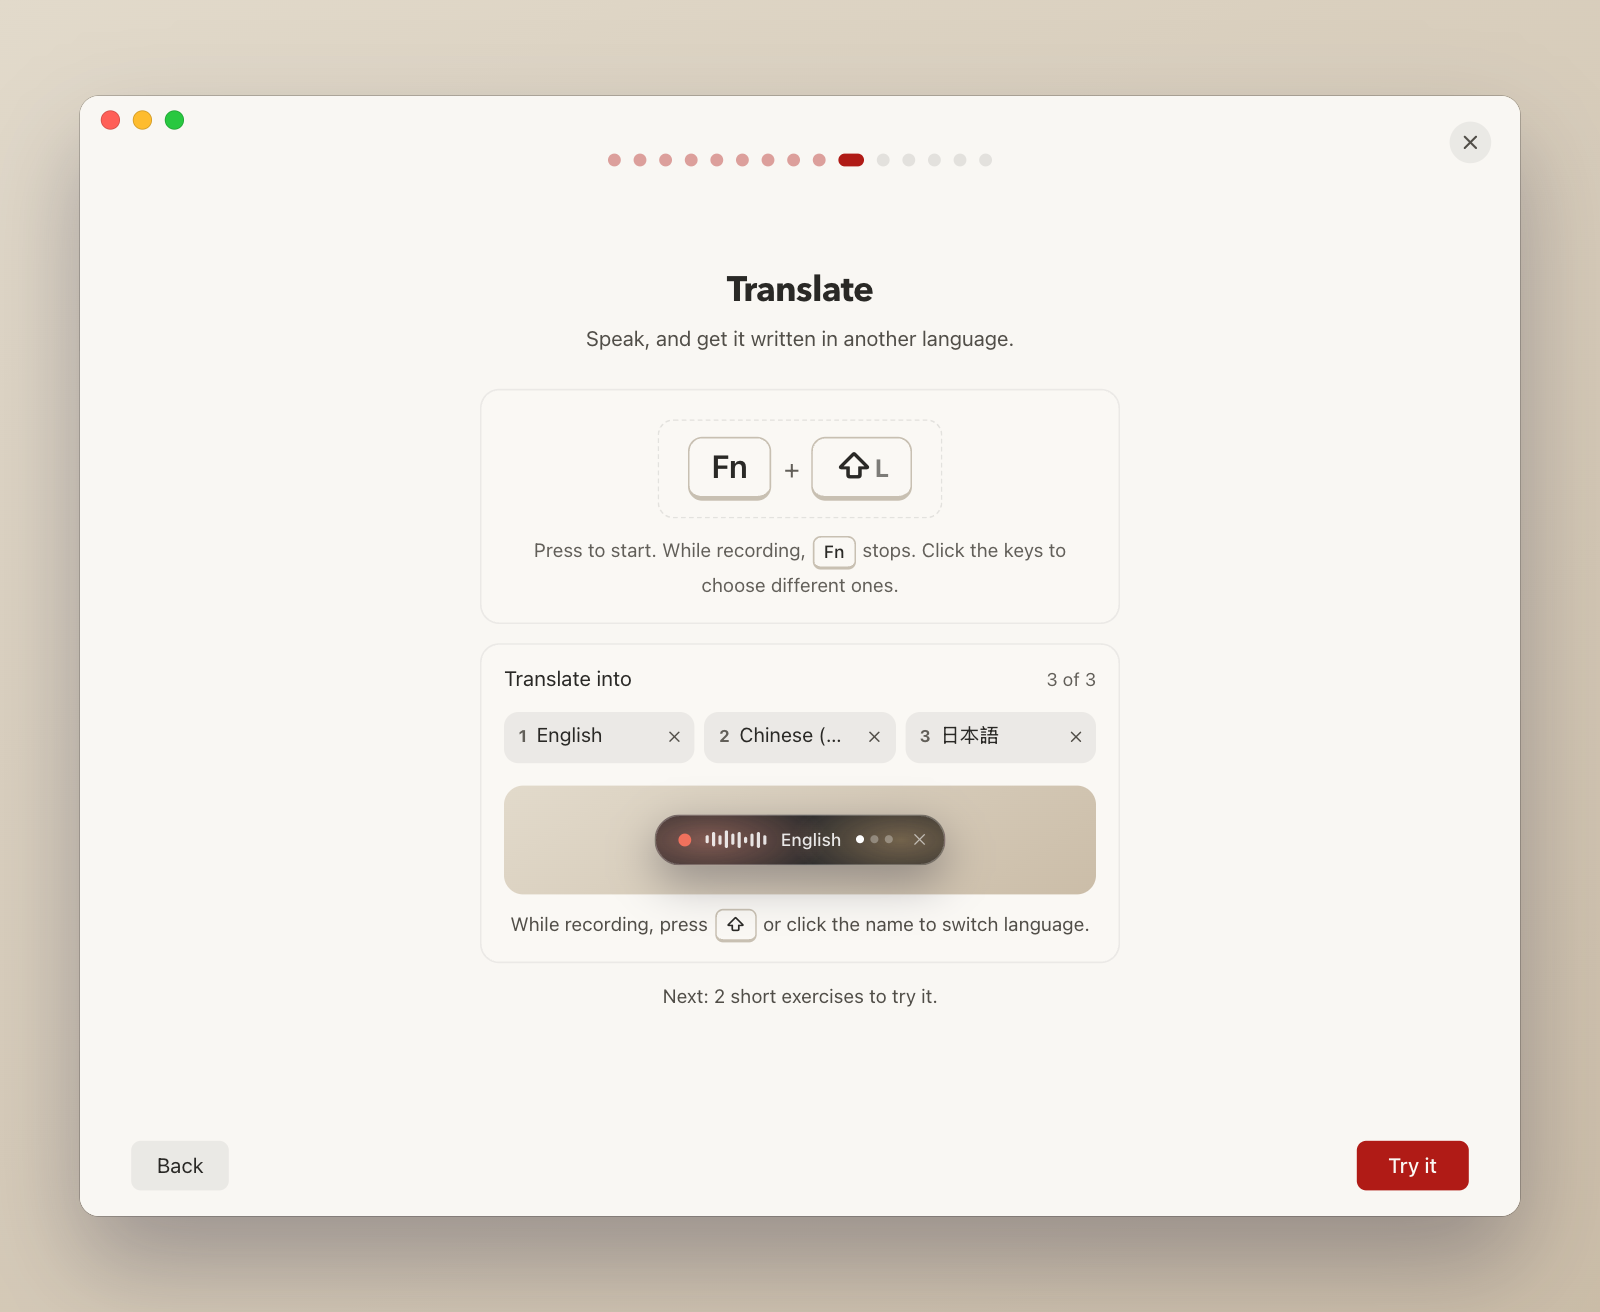
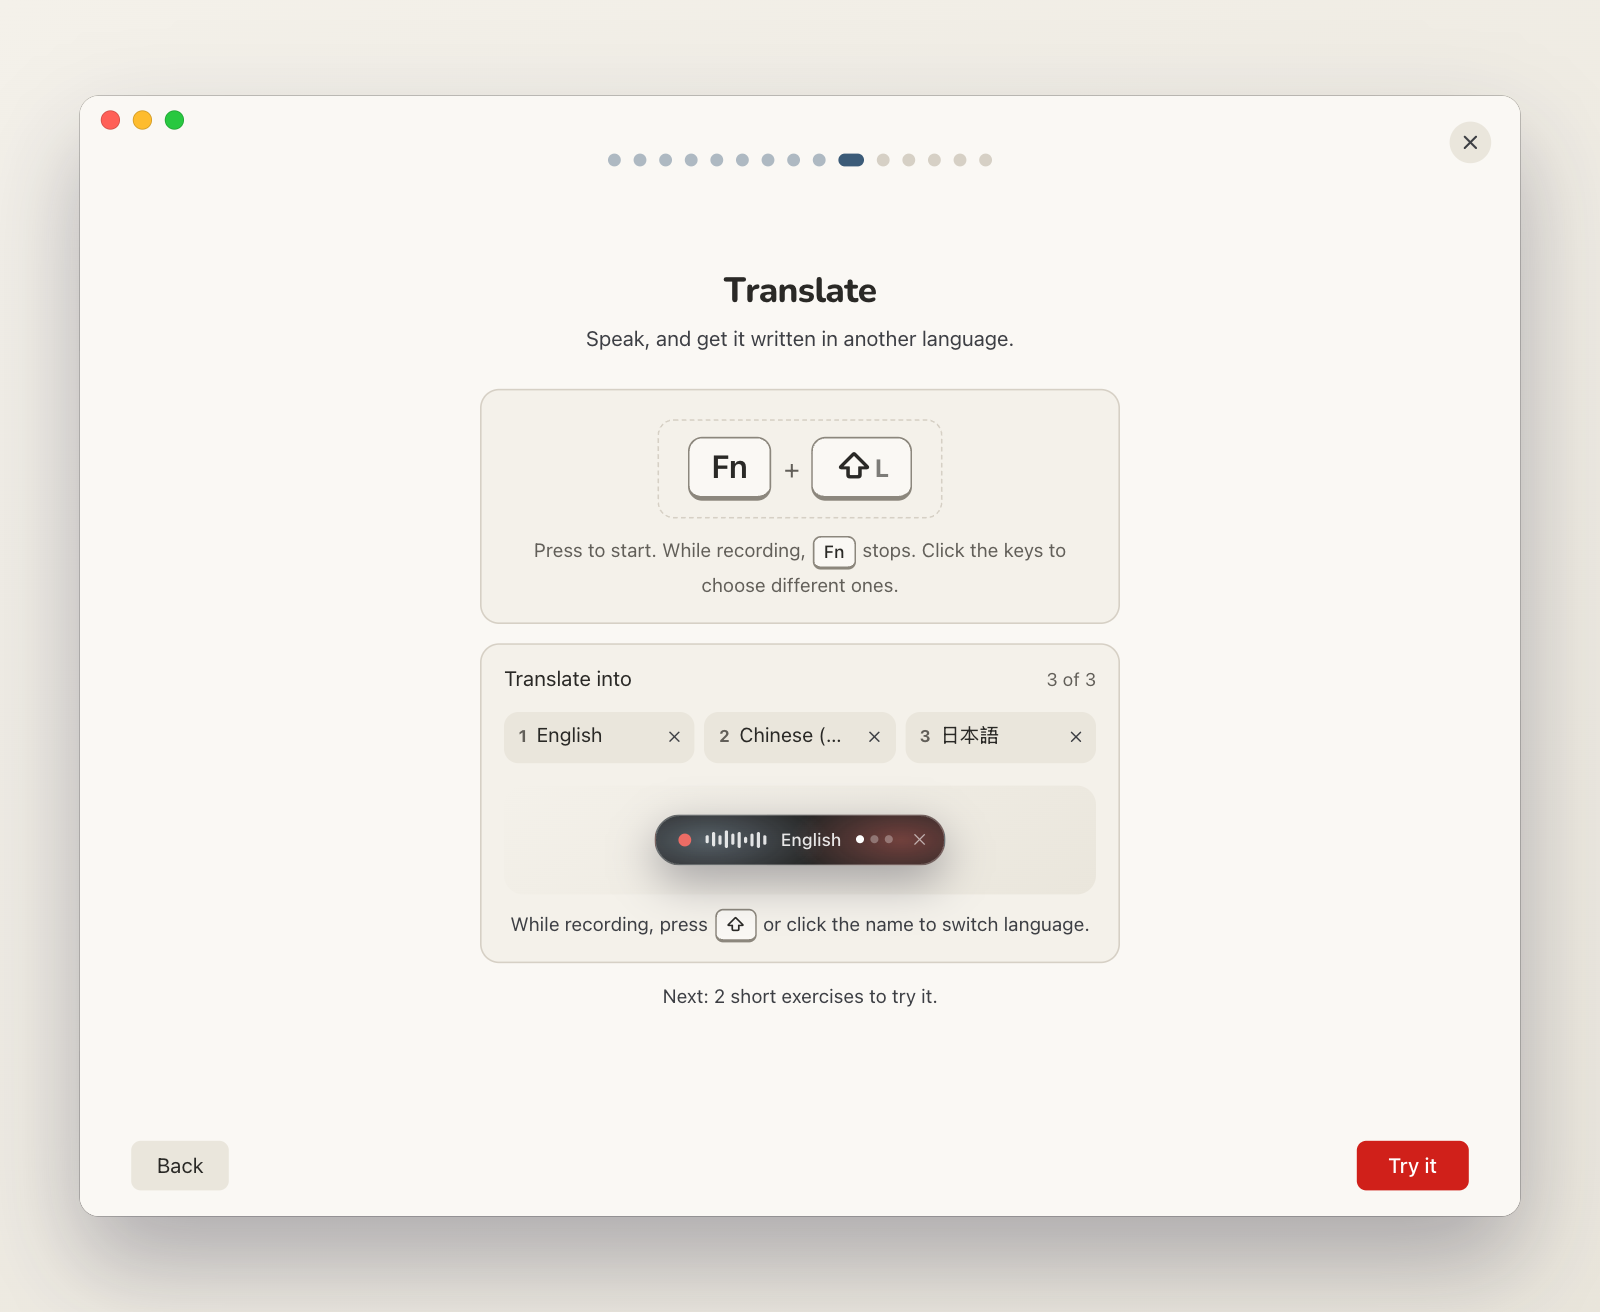
Refresh KoelType screenshots and demo media

diff --git a/site/capture/capture.css b/site/capture/capture.css
@@ -33,13 +33,16 @@ body.capture::before {
   margin: -20px;
   padding: 64px 80px;
   overflow: hidden;
-  color: #e6e2da;
-  background: #1e1e1d;
+  --koel-logo-ink: #f4f1ea;
+  --koel-red-text: var(--koel-capsule-red);
+  color: var(--koel-capsule-text);
+  background: var(--koel-capsule-chip-text);
 }
 .og-brand {
   display: flex;
   align-items: center;
   gap: 18px;
+  font-family: var(--font-display);
   font-size: 34px;
   font-weight: 700;
   letter-spacing: -0.02em;
@@ -47,7 +50,7 @@ body.capture::before {
 .og h1 {
   margin-top: 48px;
   font-size: 128px;
-  font-weight: 800;
+  font-weight: 900;
   letter-spacing: -0.05em;
   line-height: 1;
 }

diff --git a/site/capture/main.tsx b/site/capture/main.tsx
@@ -5,6 +5,7 @@
  *   /capture/?scene=hero|translate|ask|og&theme=light|dark
  */
 import { createRoot } from 'react-dom/client'
+import { KoelMark } from '../../src/brand/KoelArtwork'
 import { enableCaptureClock } from '../src/lib/clock'
 import { HeroDemo } from '../src/demos/HeroDemo'
 import { AskVignette, TranslateVignette } from '../src/demos/Vignettes'
@@ -27,7 +28,7 @@ function Og() {
   return (
     <div className="og">
       <div className="og-brand">
-        <img src={`${import.meta.env.BASE_URL}icon-256.png`} alt="" width={64} height={64} />
+        <KoelMark size={64} />
         {PRODUCT_NAME}
       </div>
       <h1>

diff --git a/site/capture-app/capture.css b/site/capture-app/capture.css
@@ -17,11 +17,8 @@ body {
   width: 1000px;
   height: 820px;
   padding: 60px 50px;
-  background: linear-gradient(148deg, #e2dacb, #cbbda8);
+  background: linear-gradient(148deg, var(--koel-surface), var(--koel-surface-2));
   overflow: hidden;
-}
-.dark .capture-stage {
-  background: linear-gradient(148deg, #3c3933, #22221f);
 }
 
 .capture-frame {
